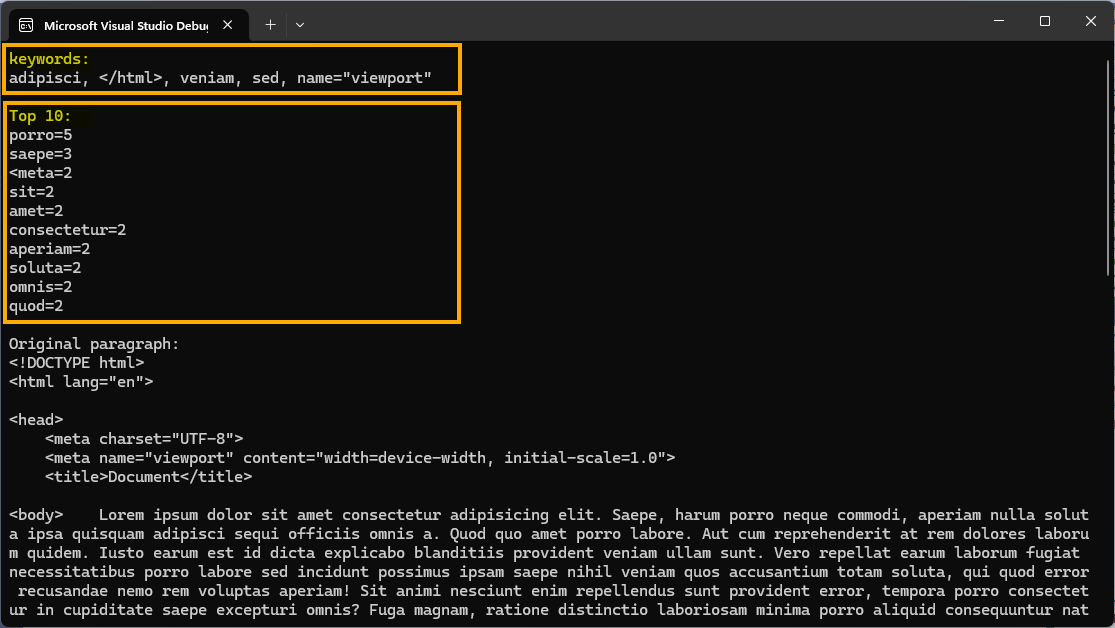
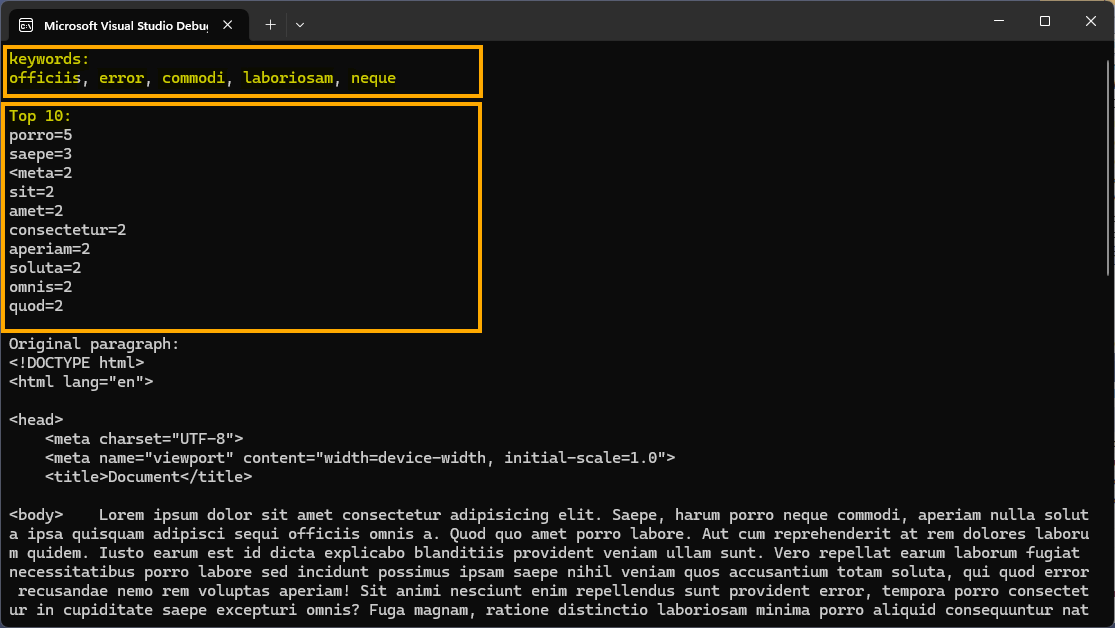
update new images and README.md

Changed region(s): [[0.0, 0.0605, 0.4574, 0.5446], [0.0, 0.9984, 1.0, 1.0], [0.9758, 0.0, 1.0, 0.0303]]

diff --git a/README.md b/README.md
@@ -1,10 +1,10 @@
 # My Word Processing
 
-**test random words and top_n function**
+1. test random words and top_n function.
 ![random keywords and top_n](images/01.png)
 
-**original, find and replaced text**
+2. original, find and replaced text.
 ![original, find and replaced text](images/02.png)
 
-**test remove all HTML tags**
+3. test remove all HTML tags.
 ![remove all HTML tags](images/03.png)
